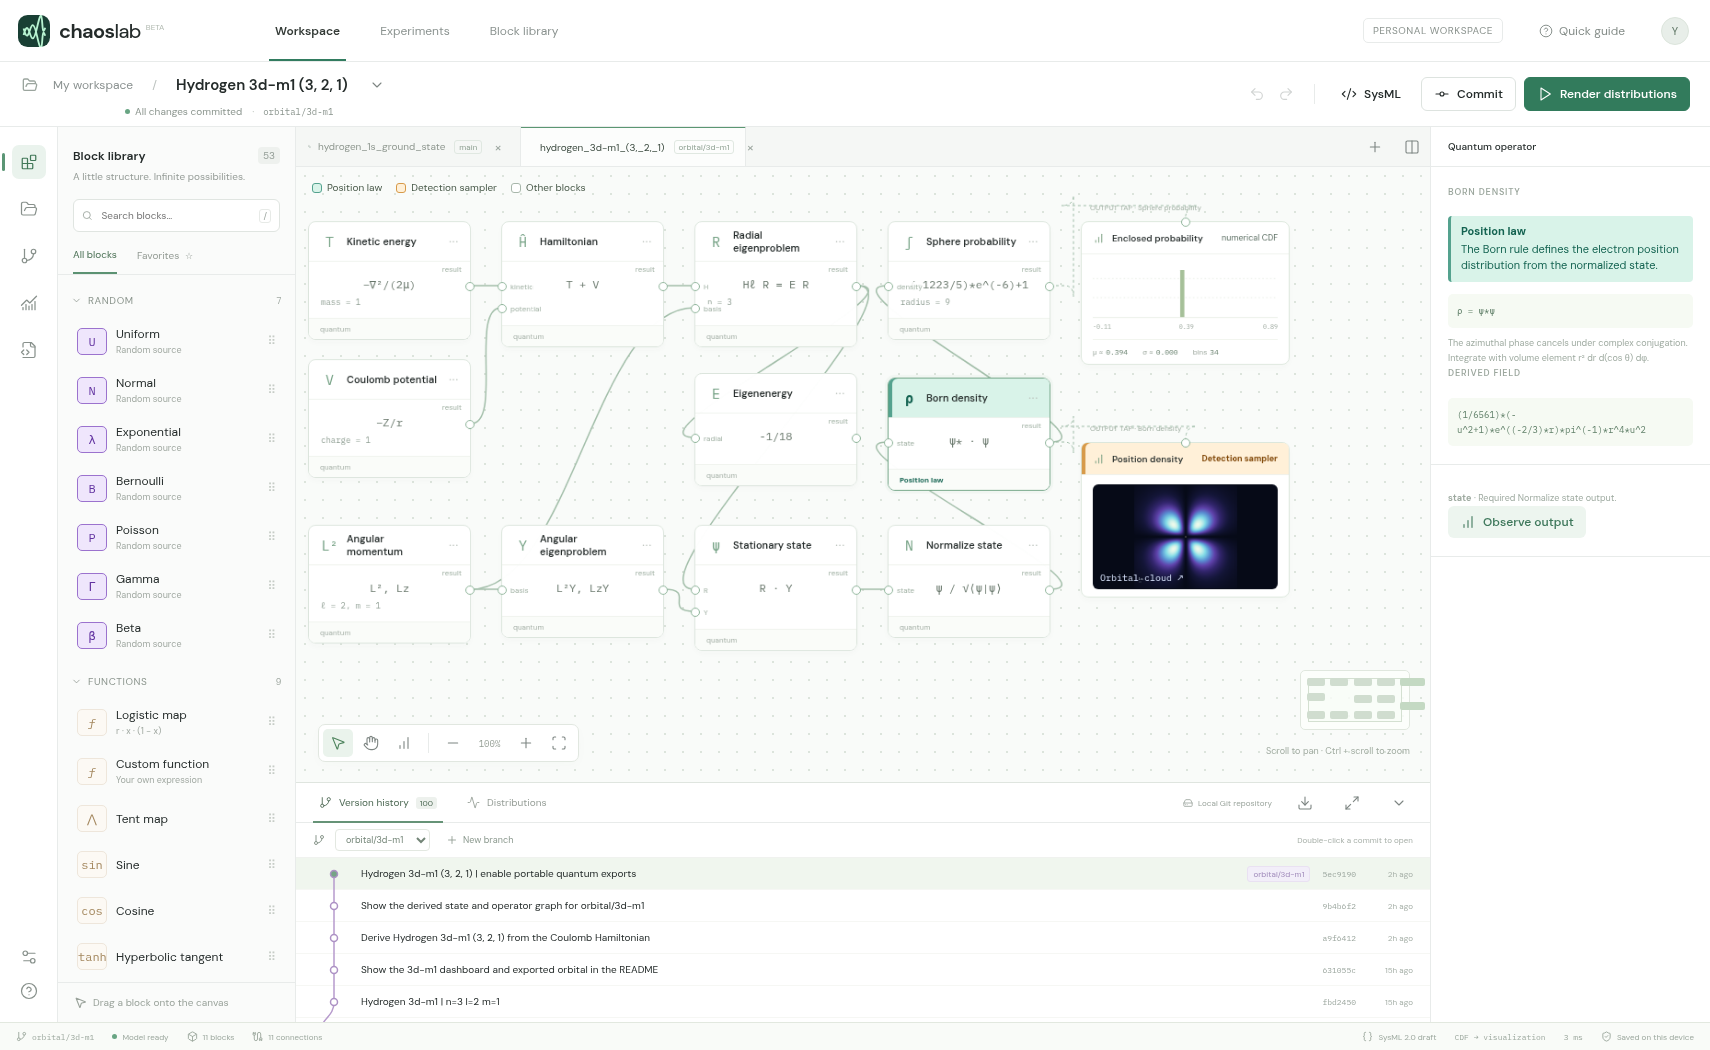
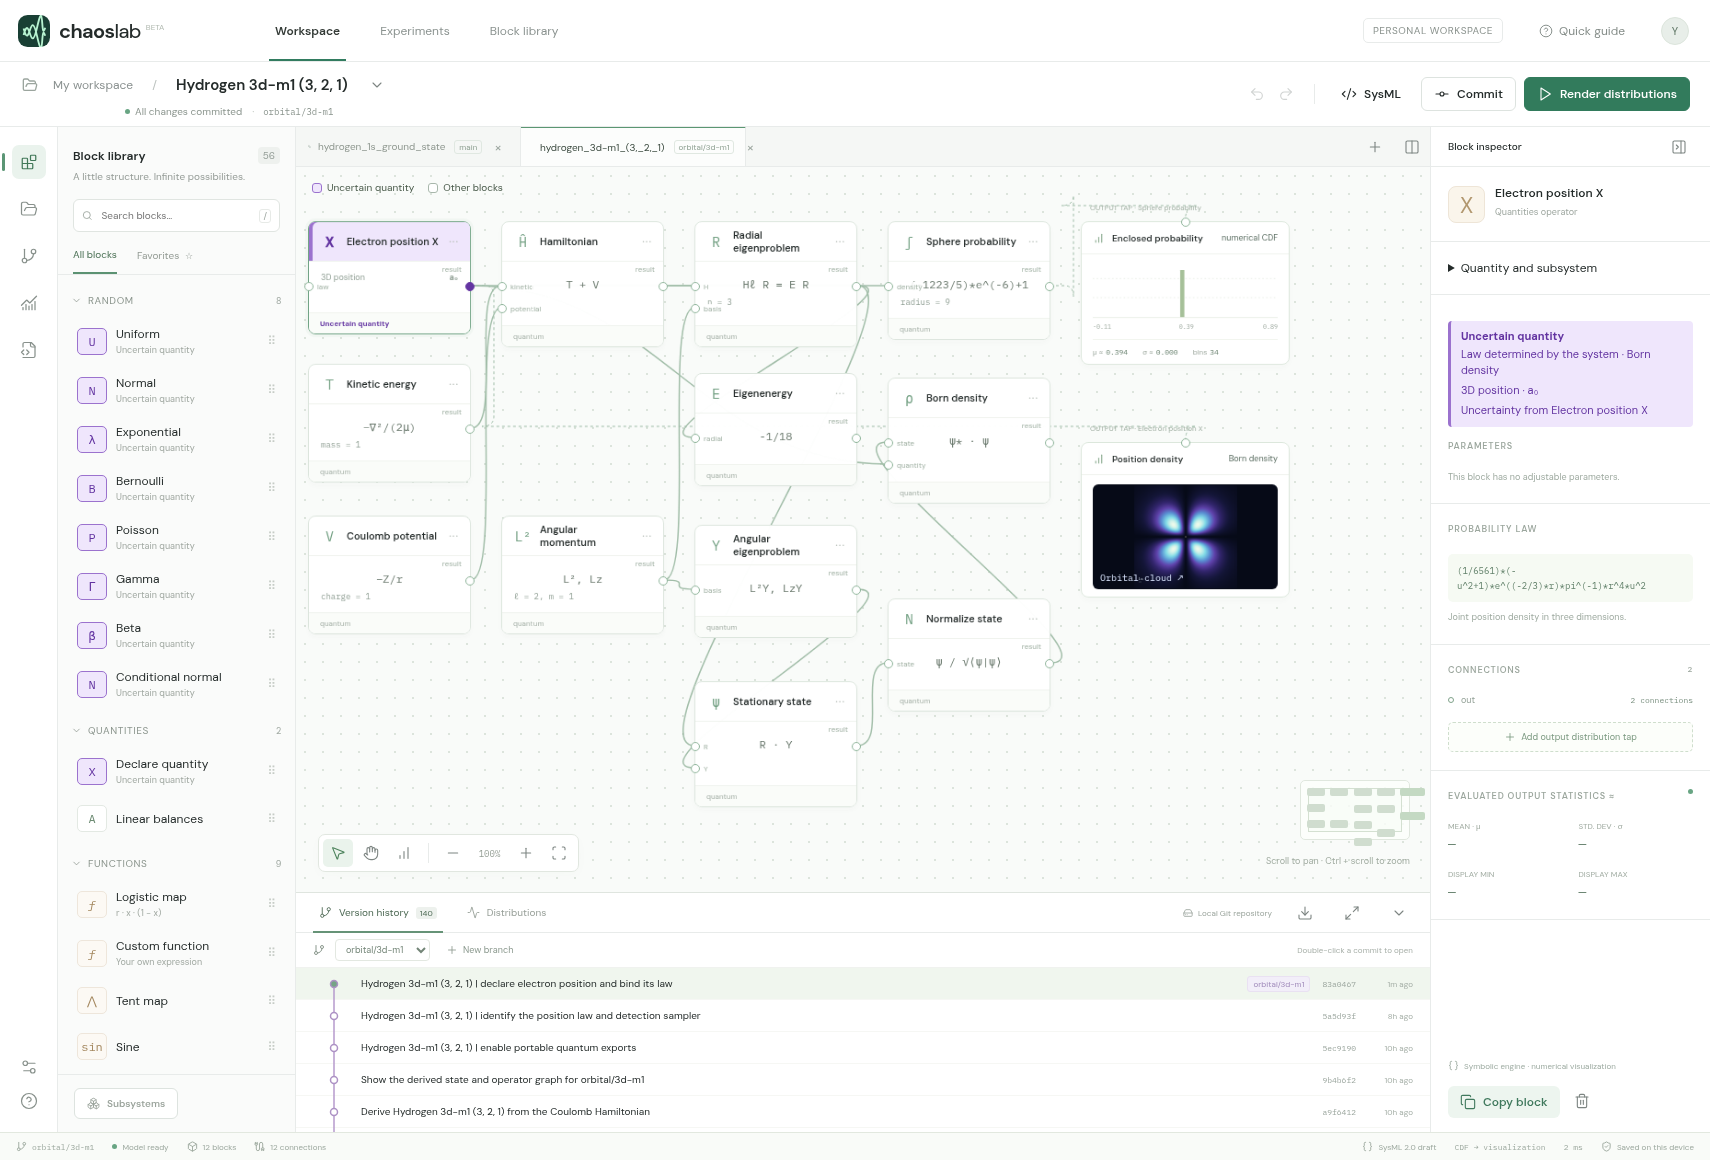
Show the position declaration and its law provider for orbital/3d-m1

diff --git a/studio.py b/studio.py
@@ -10,7 +10,7 @@ import tempfile
 import webbrowser
 
 ROOT = Path(__file__).resolve().parent
-STUDIO_REV = "5cbb600c6ee5baa24d159ddc6c974d68eb68f653"
+STUDIO_REV = "515ba96842af71b90f41019a508548a96e802665"
 STUDIO_REPO = "https://github.com/wa200508/chaos_lab.git"
 
 

diff --git a/README.md b/README.md
@@ -6,7 +6,7 @@ Open **Version history** in Chaos Lab to explore the 20 hydrogen designs in this
 
 The connected Hamiltonian and eigenstate solvers give $E=-1/18$ Hartree for this state.
 
-The purple **Electron position X** block declares the three-dimensional quantity in Bohr radii. Open its inspector to see **Born density** as its law provider. The sphere measurement and spatial tap both observe X. Projected detections draw from the final law; the central slice evaluates the density directly.
+The purple **Electron position X** block declares the three-dimensional quantity in Bohr radii. Open its inspector to see **Born density** as its law provider. The sphere measurement and spatial tap both observe X. Projected detections draw from the final law. The central slice evaluates the density directly.
 
 ![Chaos Lab dashboard with the 3d model, m = 1, open in version history](dashboard.png)
 
